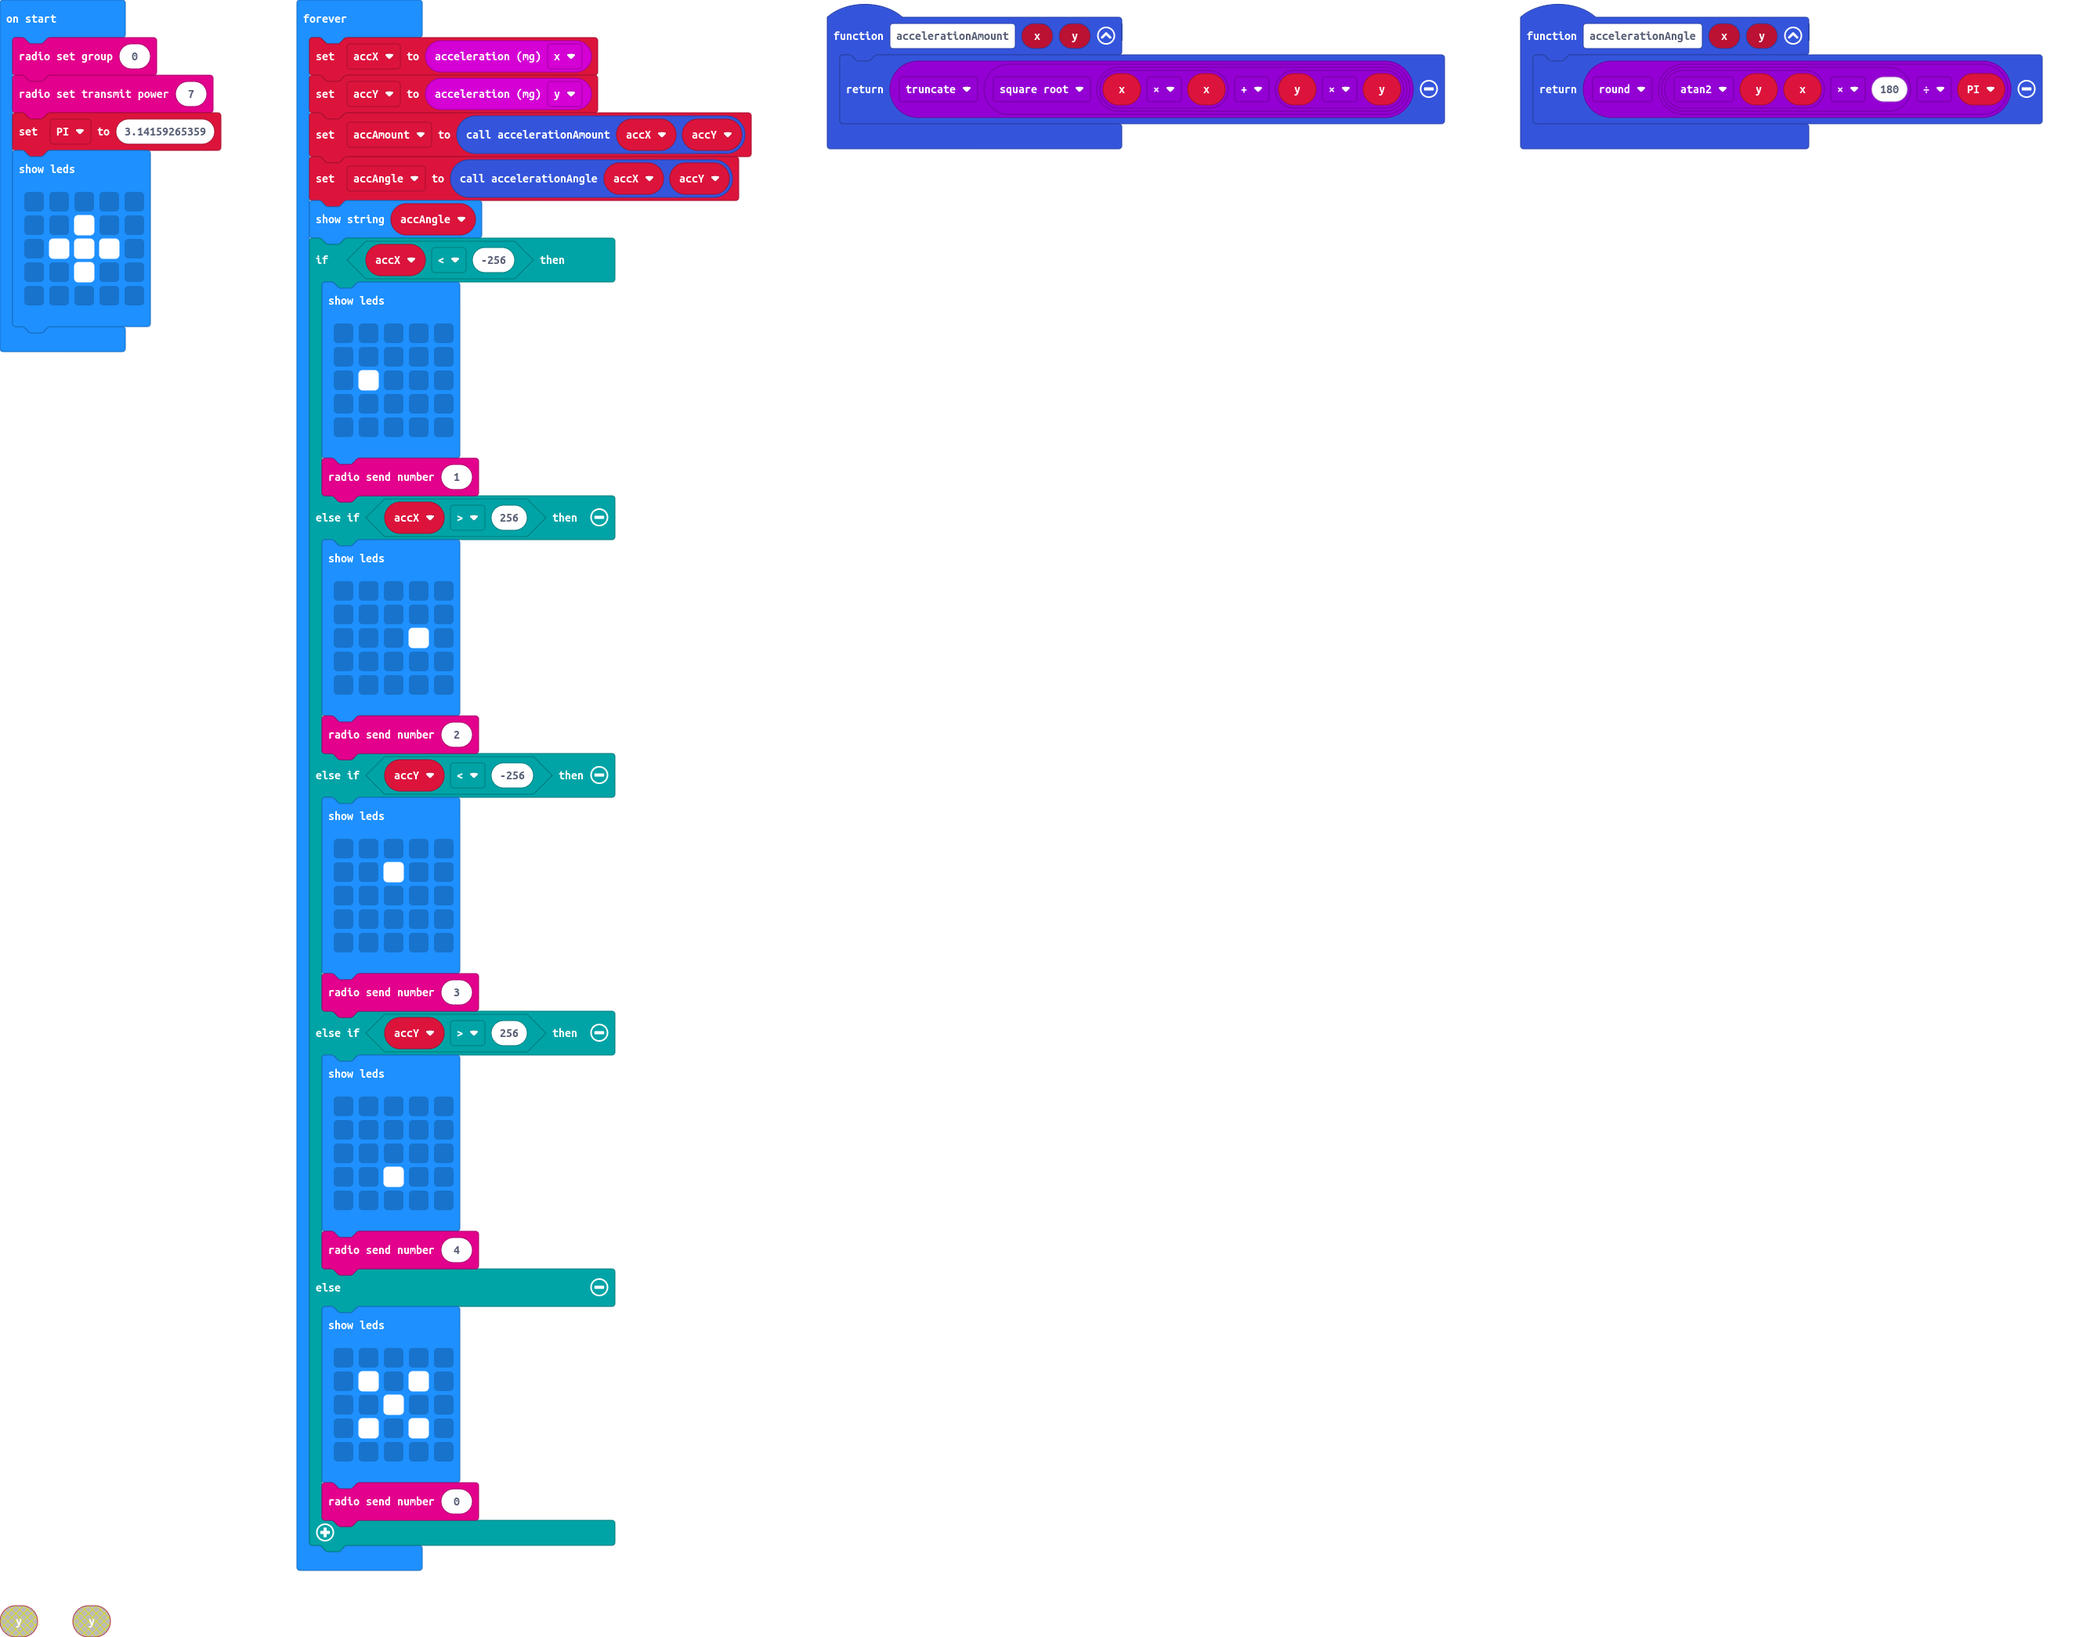
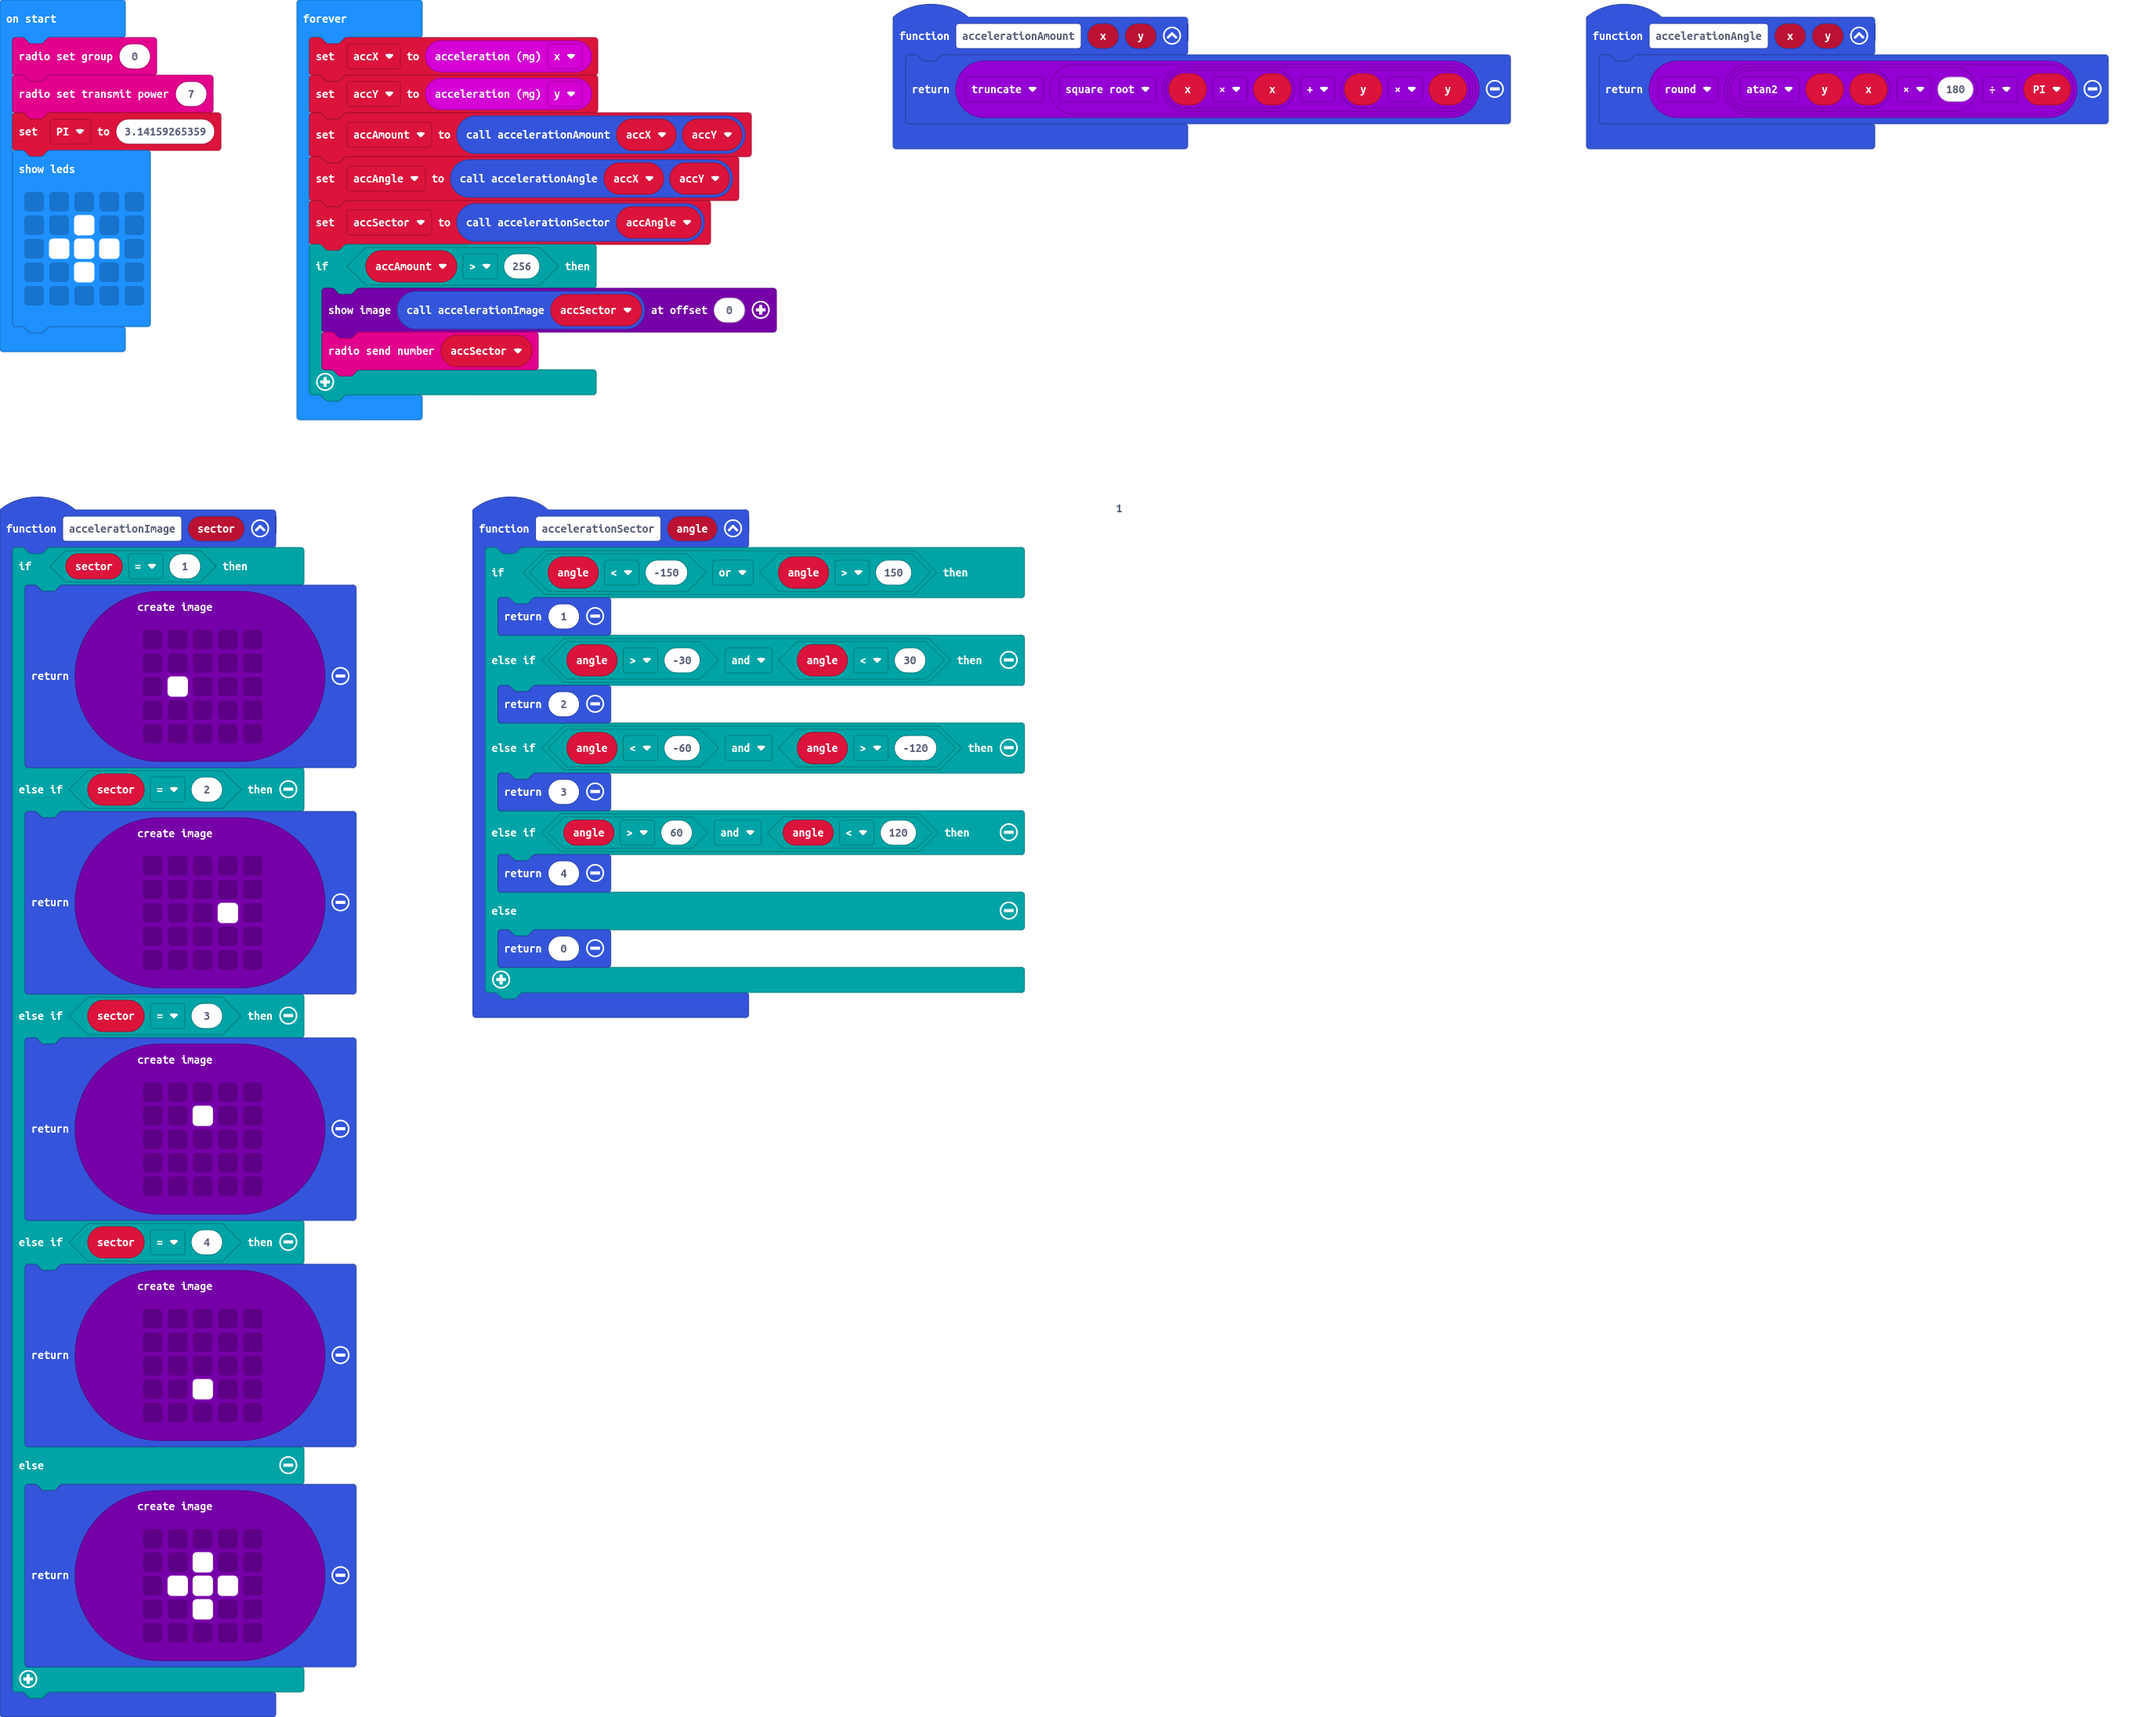
Calculate and transmit accelerationSector

Changed region(s): [[0.0, 0.0, 0.9989, 1.0]]

diff --git a/main.ts b/main.ts
@@ -1,9 +1,66 @@
+function accelerationSector (angle: number) {
+    if (angle < -150 || angle > 150) {
+        return 1
+    } else if (angle > -30 && angle < 30) {
+        return 2
+    } else if (angle < -60 && angle > -120) {
+        return 3
+    } else if (angle > 60 && angle < 120) {
+        return 4
+    } else {
+        return 0
+    }
+}
 function accelerationAmount (x: number, y: number) {
     return Math.trunc(Math.sqrt(x * x + y * y))
+}
+function accelerationImage (sector: number) {
+    if (sector == 1) {
+        return images.createImage(`
+            . . . . .
+            . . . . .
+            . # . . .
+            . . . . .
+            . . . . .
+            `)
+    } else if (sector == 2) {
+        return images.createImage(`
+            . . . . .
+            . . . . .
+            . . . # .
+            . . . . .
+            . . . . .
+            `)
+    } else if (sector == 3) {
+        return images.createImage(`
+            . . . . .
+            . . # . .
+            . . . . .
+            . . . . .
+            . . . . .
+            `)
+    } else if (sector == 4) {
+        return images.createImage(`
+            . . . . .
+            . . . . .
+            . . . . .
+            . . # . .
+            . . . . .
+            `)
+    } else {
+        return images.createImage(`
+            . . . . .
+            . . # . .
+            . # # # .
+            . . # . .
+            . . . . .
+            `)
+    }
 }
 function accelerationAngle (x: number, y: number) {
     return Math.round(Math.atan2(y, x) * 180 / PI)
 }
+let accSector = 0
 let accAngle = 0
 let accAmount = 0
 let accY = 0
@@ -24,51 +81,9 @@ basic.forever(function () {
     accY = input.acceleration(Dimension.Y)
     accAmount = accelerationAmount(accX, accY)
     accAngle = accelerationAngle(accX, accY)
-    basic.showString("" + (accAngle))
-    if (accX < -256) {
-        basic.showLeds(`
-            . . . . .
-            . . . . .
-            . # . . .
-            . . . . .
-            . . . . .
-            `)
-        radio.sendNumber(1)
-    } else if (accX > 256) {
-        basic.showLeds(`
-            . . . . .
-            . . . . .
-            . . . # .
-            . . . . .
-            . . . . .
-            `)
-        radio.sendNumber(2)
-    } else if (accY < -256) {
-        basic.showLeds(`
-            . . . . .
-            . . # . .
-            . . . . .
-            . . . . .
-            . . . . .
-            `)
-        radio.sendNumber(3)
-    } else if (accY > 256) {
-        basic.showLeds(`
-            . . . . .
-            . . . . .
-            . . . . .
-            . . # . .
-            . . . . .
-            `)
-        radio.sendNumber(4)
-    } else {
-        basic.showLeds(`
-            . . . . .
-            . # . # .
-            . . # . .
-            . # . # .
-            . . . . .
-            `)
-        radio.sendNumber(0)
+    accSector = accelerationSector(accAngle)
+    if (accAmount > 256) {
+        accelerationImage(accSector).showImage(0)
+        radio.sendNumber(accSector)
     }
 })
